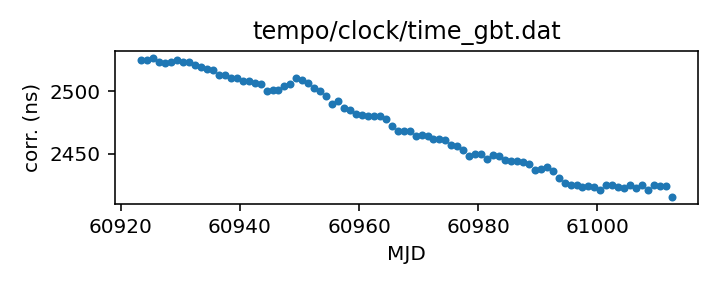
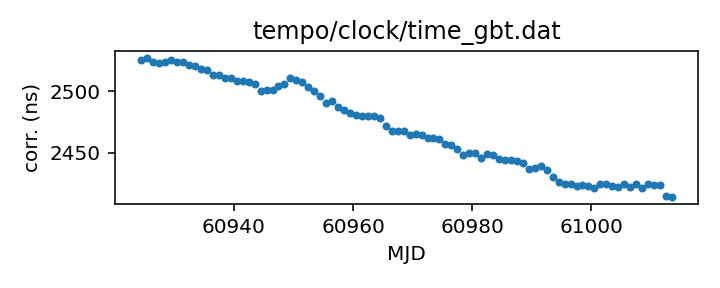
Routine gh-pages update from Github action Fri Dec  5 20:45:01 UTC 2025

diff --git a/status.md b/status.md
@@ -13,18 +13,18 @@ name of each clock file links to a page with more details.
 
 | Name | File | Corrections start | Corrections end | Last check date | Last check result 
 |:--- |:--- | --- | --- | --- |:--- 
-| [GPS to UTC](T2runtime/clock/gps2utc.clk.html) | `T2runtime/clock/gps2utc.clk` | 1993-01-01 MJD 48988.0 | 2025-10-31 MJD 60979.0 | 2025-12-04 | Unchanged 
-| [GPS to UTC (Combined Clock)](T2runtime/clock/gps2utc_cc.clk.html) | `T2runtime/clock/gps2utc_cc.clk` | 1993-01-01 MJD 48988.0 | 2025-10-31 MJD 60979.0 | 2025-12-04 | Unchanged 
-| [GPS to UTC (Corrected)](T2runtime/clock/gps2utc_c0p.clk.html) | `T2runtime/clock/gps2utc_c0p.clk` | 2010-12-29 MJD 55559.0 | 2025-10-31 MJD 60979.0 | 2025-12-04 | Unchanged 
-| [GBT](tempo/clock/time_gbt.dat.html) | `tempo/clock/time_gbt.dat` | 2000-12-31 MJD 51909.5 | 2025-12-03 MJD 61012.5 | 2025-12-04 | Updated 
-| [GBT (TEMPO2 converted from TEMPO)](T2runtime/clock/gbt2gps.clk.html) | `T2runtime/clock/gbt2gps.clk` | 2000-12-31 MJD 51909.5 | 2024-05-18 MJD 60448.5 | 2025-12-04 | **Validation failed** 
+| [GPS to UTC](T2runtime/clock/gps2utc.clk.html) | `T2runtime/clock/gps2utc.clk` | 1993-01-01 MJD 48988.0 | 2025-10-31 MJD 60979.0 | 2025-12-05 | Unchanged 
+| [GPS to UTC (Combined Clock)](T2runtime/clock/gps2utc_cc.clk.html) | `T2runtime/clock/gps2utc_cc.clk` | 1993-01-01 MJD 48988.0 | 2025-10-31 MJD 60979.0 | 2025-12-05 | Unchanged 
+| [GPS to UTC (Corrected)](T2runtime/clock/gps2utc_c0p.clk.html) | `T2runtime/clock/gps2utc_c0p.clk` | 2010-12-29 MJD 55559.0 | 2025-10-31 MJD 60979.0 | 2025-12-05 | Unchanged 
+| [GBT](tempo/clock/time_gbt.dat.html) | `tempo/clock/time_gbt.dat` | 2000-12-31 MJD 51909.5 | 2025-12-04 MJD 61013.5 | 2025-12-05 | Updated 
+| [GBT (TEMPO2 converted from TEMPO)](T2runtime/clock/gbt2gps.clk.html) | `T2runtime/clock/gbt2gps.clk` | 2000-12-31 MJD 51909.5 | 2024-05-18 MJD 60448.5 | 2025-12-05 | **Validation failed** 
 | [Jodrell Bank](T2runtime/clock/jb2gps.clk.html) | `T2runtime/clock/jb2gps.clk` | 2006-10-13 MJD 54021.4 | 2025-10-08 MJD 60956.0 | 2025-12-01 | Unchanged 
 | [Jodrell Bank Roach](T2runtime/clock/jbroach2jb.clk.html) | `T2runtime/clock/jbroach2jb.clk` | 2006-10-13 MJD 54021.4 | 2018-03-20 MJD 58197.6 | 2025-12-01 | Unchanged 
 | [Jodrell Bank DFB](T2runtime/clock/jbdfb2jb.clk.html) | `T2runtime/clock/jbdfb2jb.clk` | 2006-10-13 MJD 54021.4 | 2021-02-22 MJD 59268.0 | 2025-12-01 | Unchanged 
 | [Meerkat (observatory)](T2runtime/clock/mk2utc_observatory.clk.html) | `T2runtime/clock/mk2utc_observatory.clk` | 2019-01-01 MJD 58484.0 | 2025-11-14 MJD 60994.0 | 2025-12-01 | Unchanged 
-| [Leap seconds](tempo/clock/leap.sec.html) | `tempo/clock/leap.sec` | 1972-07-01 MJD 41499.0 | 2017-01-01 MJD 57754.0 | 2025-12-04 | Unchanged 
-| [UT1 table](tempo/clock/ut1.dat.html) | `tempo/clock/ut1.dat` | 1973-01-02 MJD 41684.0 | 2026-12-12 MJD 61386.0 | 2025-12-04 | Updated 
-| [UT1 table](T2runtime/clock/ut1.dat.html) | `T2runtime/clock/ut1.dat` | 1973-01-02 MJD 41684.0 | 2026-12-12 MJD 61386.0 | 2025-12-04 | Updated 
+| [Leap seconds](tempo/clock/leap.sec.html) | `tempo/clock/leap.sec` | 1972-07-01 MJD 41499.0 | 2017-01-01 MJD 57754.0 | 2025-12-05 | Unchanged 
+| [UT1 table](tempo/clock/ut1.dat.html) | `tempo/clock/ut1.dat` | 1973-01-02 MJD 41684.0 | 2026-12-12 MJD 61386.0 | 2025-12-05 | Unchanged 
+| [UT1 table](T2runtime/clock/ut1.dat.html) | `T2runtime/clock/ut1.dat` | 1973-01-02 MJD 41684.0 | 2026-12-12 MJD 61386.0 | 2025-12-05 | Unchanged 
 
 
 

diff --git a/T2runtime/clock/gbt2gps.clk.md b/T2runtime/clock/gbt2gps.clk.md
@@ -25,12 +25,11 @@ If questions arise about the conversion, contact Anne Archibald
 | Clock file start | 2000-12-31 MJD 51909.5 |
 | Clock file end | 2024-05-18 MJD 60448.5 |
 | Update interval (days) | 1 |
-| Last update attempt | 2025-12-04 |
+| Last update attempt | 2025-12-05 |
 | Last update result | Validation failed |
 
 Log entries from the last few update attempts:
 ```
-2025-11-25 20:44:10.043 - Validation failed: New version of T2runtime/clock/gbt2gps.clk MJDs differ from old version where they overlap in 8407 places
 2025-11-26 20:39:39.405 - Validation failed: New version of T2runtime/clock/gbt2gps.clk MJDs differ from old version where they overlap in 8407 places
 2025-11-27 20:39:39.944 - Validation failed: New version of T2runtime/clock/gbt2gps.clk MJDs differ from old version where they overlap in 8407 places
 2025-11-28 20:42:06.214 - Validation failed: New version of T2runtime/clock/gbt2gps.clk MJDs differ from old version where they overlap in 8407 places
@@ -40,6 +39,7 @@ Log entries from the last few update attempts:
 2025-12-02 20:45:31.113 - Validation failed: New version of T2runtime/clock/gbt2gps.clk MJDs differ from old version where they overlap in 8407 places
 2025-12-03 20:46:11.768 - Validation failed: New version of T2runtime/clock/gbt2gps.clk MJDs differ from old version where they overlap in 8407 places
 2025-12-04 20:45:40.500 - Validation failed: New version of T2runtime/clock/gbt2gps.clk MJDs differ from old version where they overlap in 8407 places
+2025-12-05 20:44:34.061 - Validation failed: New version of T2runtime/clock/gbt2gps.clk MJDs differ from old version where they overlap in 8407 places
 ```
 [Full log](https://raw.githubusercontent.com/ipta/pulsar-clock-corrections/main/log/T2runtime/clock/gbt2gps.clk.log)
 

diff --git a/tempo/clock/time_gbt.dat.md b/tempo/clock/time_gbt.dat.md
@@ -36,14 +36,13 @@ If questions arise, contact Ryan S. Lynch <rlynch@nrao.edu>.
 | Format | tempo |
 | Bogus last correction | False |
 | Clock file start | 2000-12-31 MJD 51909.5 |
-| Clock file end | 2025-12-03 MJD 61012.5 |
+| Clock file end | 2025-12-04 MJD 61013.5 |
 | Update interval (days) | 1 |
-| Last update attempt | 2025-12-04 |
+| Last update attempt | 2025-12-05 |
 | Last update result | Updated |
 
 Log entries from the last few update attempts:
 ```
-2025-11-25 20:44:09.978 - Updated
 2025-11-26 20:39:39.337 - Updated
 2025-11-27 20:39:39.876 - Updated
 2025-11-28 20:42:06.145 - Updated
@@ -53,12 +52,13 @@ Log entries from the last few update attempts:
 2025-12-02 20:45:31.043 - Updated
 2025-12-03 20:46:11.699 - Updated
 2025-12-04 20:45:40.432 - Updated
+2025-12-05 20:44:33.990 - Updated
 ```
 [Full log](https://raw.githubusercontent.com/ipta/pulsar-clock-corrections/main/log/tempo/clock/time_gbt.dat.log)
 
 Leading comments from clock file:
 
-     -2271.50       0.0        -0.486 1    32764-dec
+     -2271.50       0.0        -0.486 1    32765-dec
 
 
 

diff --git a/T2runtime/clock/gps2utc_c0p.clk.md b/T2runtime/clock/gps2utc_c0p.clk.md
@@ -30,12 +30,11 @@ about the BIPM's published corrections, contact <tai@bipm.org>.
 | Clock file start | 2010-12-29 MJD 55559.0 |
 | Clock file end | 2025-10-31 MJD 60979.0 |
 | Update interval (days) | 1 |
-| Last update attempt | 2025-12-04 |
+| Last update attempt | 2025-12-05 |
 | Last update result | Unchanged |
 
 Log entries from the last few update attempts:
 ```
-2025-11-25 20:44:08.876 - Unchanged
 2025-11-26 20:39:38.263 - Unchanged
 2025-11-27 20:39:39.376 - Unchanged
 2025-11-28 20:42:05.617 - Unchanged
@@ -45,6 +44,7 @@ Log entries from the last few update attempts:
 2025-12-02 20:45:30.312 - Unchanged
 2025-12-03 20:46:11.037 - Unchanged
 2025-12-04 20:45:39.560 - Unchanged
+2025-12-05 20:44:33.168 - Unchanged
 ```
 [Full log](https://raw.githubusercontent.com/ipta/pulsar-clock-corrections/main/log/T2runtime/clock/gps2utc_c0p.clk.log)
 

diff --git a/T2runtime/clock/gps2utc_cc.clk.md b/T2runtime/clock/gps2utc_cc.clk.md
@@ -29,12 +29,11 @@ about the BIPM's published corrections, contact <tai@bipm.org>.
 | Clock file start | 1993-01-01 MJD 48988.0 |
 | Clock file end | 2025-10-31 MJD 60979.0 |
 | Update interval (days) | 1 |
-| Last update attempt | 2025-12-04 |
+| Last update attempt | 2025-12-05 |
 | Last update result | Unchanged |
 
 Log entries from the last few update attempts:
 ```
-2025-11-25 20:44:08.868 - Unchanged
 2025-11-26 20:39:38.254 - Unchanged
 2025-11-27 20:39:39.369 - Unchanged
 2025-11-28 20:42:05.609 - Unchanged
@@ -44,6 +43,7 @@ Log entries from the last few update attempts:
 2025-12-02 20:45:30.304 - Unchanged
 2025-12-03 20:46:11.029 - Unchanged
 2025-12-04 20:45:39.553 - Unchanged
+2025-12-05 20:44:33.159 - Unchanged
 ```
 [Full log](https://raw.githubusercontent.com/ipta/pulsar-clock-corrections/main/log/T2runtime/clock/gps2utc_cc.clk.log)
 

diff --git a/T2runtime/clock/gps2utc.clk.md b/T2runtime/clock/gps2utc.clk.md
@@ -32,12 +32,11 @@ about the BIPM's published corrections, contact <tai@bipm.org>.
 | Clock file start | 1993-01-01 MJD 48988.0 |
 | Clock file end | 2025-10-31 MJD 60979.0 |
 | Update interval (days) | 1 |
-| Last update attempt | 2025-12-04 |
+| Last update attempt | 2025-12-05 |
 | Last update result | Unchanged |
 
 Log entries from the last few update attempts:
 ```
-2025-11-25 20:44:08.846 - Unchanged
 2025-11-26 20:39:38.232 - Unchanged
 2025-11-27 20:39:39.347 - Unchanged
 2025-11-28 20:42:05.587 - Unchanged
@@ -47,6 +46,7 @@ Log entries from the last few update attempts:
 2025-12-02 20:45:30.282 - Unchanged
 2025-12-03 20:46:11.007 - Unchanged
 2025-12-04 20:45:39.531 - Unchanged
+2025-12-05 20:44:33.136 - Unchanged
 ```
 [Full log](https://raw.githubusercontent.com/ipta/pulsar-clock-corrections/main/log/T2runtime/clock/gps2utc.clk.log)
 

diff --git a/T2runtime/clock/ut1.dat.md b/T2runtime/clock/ut1.dat.md
@@ -30,12 +30,11 @@ If there are any questions, contact Anne Archibald
 | File start | 1973-01-02 MJD 41684.0 |
 | File end | 2026-12-12 MJD 61386.0 |
 | Update interval (days) | 0 |
-| Last update attempt | 2025-12-04 |
-| Last update result | Updated |
+| Last update attempt | 2025-12-05 |
+| Last update result | Unchanged |
 
 Log entries from the last few update attempts:
 ```
-2025-11-25 20:44:22.297 - Unchanged
 2025-11-26 20:39:53.322 - Unchanged
 2025-11-27 20:39:47.758 - Updated
 2025-11-28 20:42:15.789 - Unchanged
@@ -45,5 +44,6 @@ Log entries from the last few update attempts:
 2025-12-02 20:45:40.861 - Unchanged
 2025-12-03 20:46:20.506 - Unchanged
 2025-12-04 20:45:52.420 - Updated
+2025-12-05 20:44:46.670 - Unchanged
 ```
 [Full log](https://raw.githubusercontent.com/ipta/pulsar-clock-corrections/main/log/T2runtime/clock/ut1.dat.log)

diff --git a/tempo/clock/ut1.dat.md b/tempo/clock/ut1.dat.md
@@ -30,12 +30,11 @@ If there are any questions, contact Anne Archibald
 | File start | 1973-01-02 MJD 41684.0 |
 | File end | 2026-12-12 MJD 61386.0 |
 | Update interval (days) | 0 |
-| Last update attempt | 2025-12-04 |
-| Last update result | Updated |
+| Last update attempt | 2025-12-05 |
+| Last update result | Unchanged |
 
 Log entries from the last few update attempts:
 ```
-2025-11-25 20:44:22.251 - Unchanged
 2025-11-26 20:39:53.273 - Unchanged
 2025-11-27 20:39:47.709 - Updated
 2025-11-28 20:42:15.740 - Unchanged
@@ -45,5 +44,6 @@ Log entries from the last few update attempts:
 2025-12-02 20:45:40.813 - Unchanged
 2025-12-03 20:46:20.457 - Unchanged
 2025-12-04 20:45:52.372 - Updated
+2025-12-05 20:44:46.621 - Unchanged
 ```
 [Full log](https://raw.githubusercontent.com/ipta/pulsar-clock-corrections/main/log/tempo/clock/ut1.dat.log)

diff --git a/tempo/clock/leap.sec.md b/tempo/clock/leap.sec.md
@@ -21,12 +21,11 @@ If there are any questions, contact Anne Archibald
 | File start | 1972-07-01 MJD 41499.0 |
 | File end | 2017-01-01 MJD 57754.0 |
 | Update interval (days) | 0 |
-| Last update attempt | 2025-12-04 |
+| Last update attempt | 2025-12-05 |
 | Last update result | Unchanged |
 
 Log entries from the last few update attempts:
 ```
-2025-11-25 20:44:10.066 - Unchanged
 2025-11-26 20:39:39.432 - Unchanged
 2025-11-27 20:39:39.970 - Unchanged
 2025-11-28 20:42:06.241 - Unchanged
@@ -36,5 +35,6 @@ Log entries from the last few update attempts:
 2025-12-02 20:45:31.139 - Unchanged
 2025-12-03 20:46:11.794 - Unchanged
 2025-12-04 20:45:40.525 - Unchanged
+2025-12-05 20:44:34.089 - Unchanged
 ```
 [Full log](https://raw.githubusercontent.com/ipta/pulsar-clock-corrections/main/log/tempo/clock/leap.sec.log)
